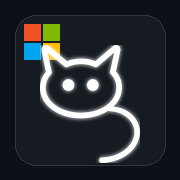
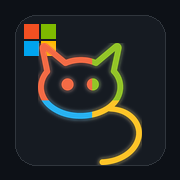
Polish social preview cat branding

Changed region(s): [[0.1111, 0.1111, 0.8056, 0.9167], [0.3333, 0.4167, 0.4444, 0.5278], [0.4722, 0.4167, 0.5556, 0.5278]]

diff --git a/src/main.jsx b/src/main.jsx
@@ -77,7 +77,7 @@ function NotFound({type,id,backHref}){return <section><PageTitle eyebrow="Missin
 function Layout({children,progress,route}){
  const done=Object.values(progress.lessons||{}).filter(Boolean).length;
  const activeNav=navIdForRoute(route?.page);
- return <><a className="skip-link" href="#main">Skip to content</a><header className="topbar"><a className="brand" href="#home"><img className="brand-logo" src="cat-outline-white.png" alt="CarlaHub cat logo"/><strong>GH-600 Study Platform</strong></a><nav aria-label="Primary navigation">{navItems.map(([id,label,Icon])=>{const active=activeNav===id; return <a key={id} href={'#'+id} aria-current={active?'page':undefined} className={active?'active':''}><Icon size={16} aria-hidden="true" />{label}</a>})}</nav></header><main id="main" className={'shell page-'+activeNav}>{children}</main><footer><div className="footer-inner"><div><strong>CarlaHub</strong><p>Unofficial GH-600 study resource. Always verify current exam objectives with Microsoft Learn before sitting the exam.</p><p>{done}/{lessons.length} lessons marked studied ({pct(done,lessons.length)}%).</p></div><nav className="footer-links" aria-label="CarlaHub links">{socialLinks.map(([label,url,Icon])=><a key={label} href={url} target="_blank" rel="noreferrer"><Icon size={16} aria-hidden="true"/>{label}</a>)}</nav></div></footer></>;
+ return <><a className="skip-link" href="#main">Skip to content</a><header className="topbar"><a className="brand" href="#home"><img className="brand-logo" src="cat-microsoft.png" alt="CarlaHub cat logo in Microsoft colors"/><strong>GH-600 Study Platform</strong></a><nav aria-label="Primary navigation">{navItems.map(([id,label,Icon])=>{const active=activeNav===id; return <a key={id} href={'#'+id} aria-current={active?'page':undefined} className={active?'active':''}><Icon size={16} aria-hidden="true" />{label}</a>})}</nav></header><main id="main" className={'shell page-'+activeNav}>{children}</main><footer><div className="footer-inner"><div><strong>CarlaHub</strong><p>Unofficial GH-600 study resource. Always verify current exam objectives with Microsoft Learn before sitting the exam.</p><p>{done}/{lessons.length} lessons marked studied ({pct(done,lessons.length)}%).</p></div><nav className="footer-links" aria-label="CarlaHub links">{socialLinks.map(([label,url,Icon])=><a key={label} href={url} target="_blank" rel="noreferrer"><Icon size={16} aria-hidden="true"/>{label}</a>)}</nav></div></footer></>;
 }
 function Stat({label,value,icon:Icon}){return <div className="stat"><Icon aria-hidden="true"/><strong>{value}</strong><span>{label}</span></div>}
 function ProgressBar({value,label}){return <div className="progress"><div><span>{label}</span><strong>{value}%</strong></div><meter min="0" max="100" value={value}>{value}%</meter></div>}

diff --git a/index.html b/index.html
@@ -13,17 +13,17 @@
     <meta property="og:title" content="GH-600 Agentic AI Study Platform" />
     <meta property="og:description" content="A source-grounded GH-600 study platform with lessons, labs, flashcards, quizzes, and an exam simulator for agentic AI developer workflows." />
     <meta property="og:url" content="https://carlashub.github.io/gh600-agentic-ai-study-site/" />
-    <meta property="og:image" content="https://carlashub.github.io/gh600-agentic-ai-study-site/og-image.png" />
-    <meta property="og:image:secure_url" content="https://carlashub.github.io/gh600-agentic-ai-study-site/og-image.png" />
+    <meta property="og:image" content="https://carlashub.github.io/gh600-agentic-ai-study-site/og-gh600-microsoft-cat.png" />
+    <meta property="og:image:secure_url" content="https://carlashub.github.io/gh600-agentic-ai-study-site/og-gh600-microsoft-cat.png" />
     <meta property="og:image:type" content="image/png" />
     <meta property="og:image:width" content="1200" />
     <meta property="og:image:height" content="630" />
-    <meta property="og:image:alt" content="GH-600 Agentic AI Study Platform with Carla's cat logo and Microsoft color accents" />
+    <meta property="og:image:alt" content="GH-600 Agentic AI Study Platform with Carla's cat logo in Microsoft colors" />
     <meta name="twitter:card" content="summary_large_image" />
     <meta name="twitter:title" content="GH-600 Agentic AI Study Platform" />
     <meta name="twitter:description" content="A source-grounded GH-600 study platform with lessons, labs, flashcards, quizzes, and an exam simulator." />
-    <meta name="twitter:image" content="https://carlashub.github.io/gh600-agentic-ai-study-site/og-image.png" />
-    <meta name="twitter:image:alt" content="GH-600 Agentic AI Study Platform with Carla's cat logo and Microsoft color accents" />
+    <meta name="twitter:image" content="https://carlashub.github.io/gh600-agentic-ai-study-site/og-gh600-microsoft-cat.png" />
+    <meta name="twitter:image:alt" content="GH-600 Agentic AI Study Platform with Carla's cat logo in Microsoft colors" />
     <title>GH-600 Agentic AI Study Platform</title>
   </head>
   <body>
